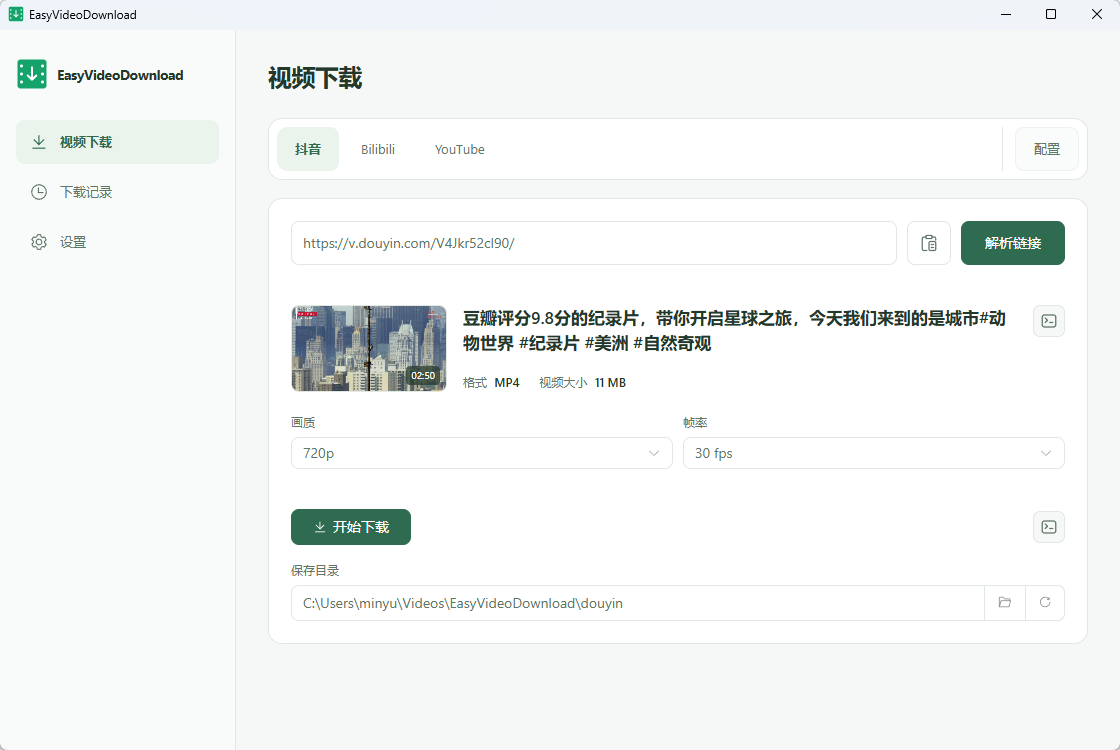
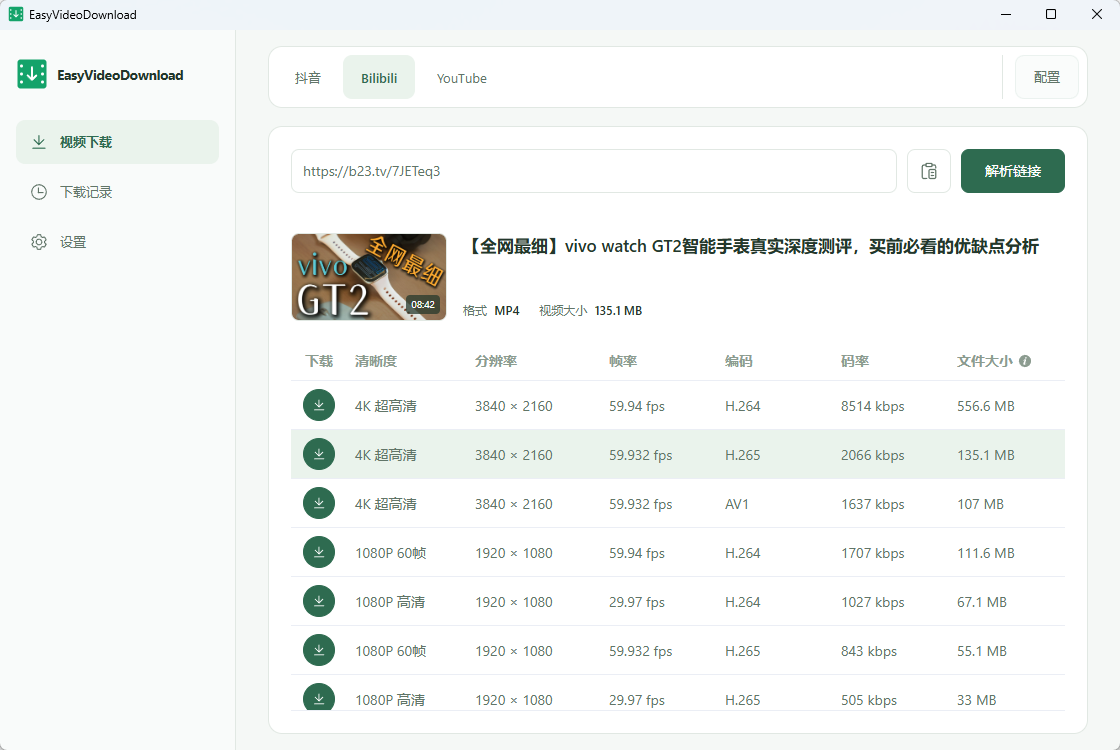
chore: 升级至 v0.2.0 并完善项目文档
1. 统一前端、Rust 和 Tauri 的应用版本为 0.2.0
2. 精简 README 为项目介绍与快速开始，更新界面截图并补充平台配置和代理说明

diff --git a/README.md b/README.md
@@ -1,90 +1,70 @@
 # EasyVideoDownload
 
-基于 Tauri 2、Vue 3、TypeScript、Element Plus 和 SQLite 的桌面端视频下载工具。抖音使用 Rust HTTP 引擎解析与下载，Bilibili 和
-YouTube 使用 yt-dlp。
+一款简单易用、页面美观的桌面视频下载工具。
 
-**当前版本：v0.1.0 · Early / Testing（第一版测试版本）**
+目前支持的平台：
 
-项目仍处于早期测试阶段，尚未达到稳定正式版。部分功能可能不完善，使用中可能遇到 Bug 或系统兼容性问题，后续版本也可能调整功能和交互。欢迎通过
-Issue 反馈问题、提出建议，也欢迎开发者提交 Pull Request，一起完善项目。
+- [抖音](https://www.douyin.com/)
+- [Bilibili](https://www.bilibili.com/)
+- [YouTube](https://www.youtube.com/)
 
-## 已实现的核心功能
+## 下载安装
 
-- **视频解析与下载**：提供抖音、Bilibili 和 YouTube 入口，支持从分享文本提取链接，展示真实标题、封面和格式表格，点击格式行直接下载，在对应平台配置中设置保存目录；独立音视频流通过
-  FFmpeg 合并。
-- **下载任务**：最多同时执行两个下载，其余按提交顺序排队；显示实际进度、速度及处理阶段，支持取消和重新下载，同一视频的不同格式分别记录。
-- **历史管理**：支持搜索、状态筛选、详情查看，打开文件、所在文件夹和来源链接；可将记录移入应用回收站或恢复，Windows
-  另支持文件回收与安全永久删除。
-- **必备工具配置**：检测系统 PATH、手动选择工具路径，或在支持的平台自动配置 yt-dlp、FFmpeg/FFprobe 和 Deno；自动配置提供进度反馈及取消操作。
-- **Cookie 与代理**：按平台导入 Netscape 格式 UTF-8 Cookie 文件、粘贴或编辑并自动保存；支持 HTTP、HTTPS、SOCKS5
-  代理配置、连接测试和平台独立开关。
-- **桌面设置与数据保存**：提供中文/英文界面、浅色/深色/系统主题、应用内下载通知、关闭询问和系统托盘；完成通知默认开启且可配置，失败始终通知；本地保存设置、页面状态、下载历史及封面缓存。
-- **运行日志**：前端通过 Tauri 官方日志插件与 Rust 后端统一记录启动错误、解析结果、下载阶段和失败原因，Cookie
-  脱敏。开发版同时输出到终端和文件，发布版只写文件；日志位于现有应用数据目录的 `logs/application_rCURRENT.log`，由
-  flexi_logger 按 5 MiB 分割并保留 4 个数字编号归档，重启后继续追加。
+前往 [Releases](https://github.com/MinYu5263/EasyVideoDownload/releases)，下载适合操作系统和架构的安装包。
 
-上述能力已在代码中接入，但网站解析及下载结果仍受 yt-dlp、网站规则、Cookie 和账号权限影响。
+## 快速开始
 
-## 项目截图
+### 1. 配置下载工具
 
-以下为 Windows 浅色主题下的实际界面。
+进入「设置 → 必备工具」，使用界面提供的自动配置，或手动选择工具路径并检测。
 
-### 视频解析与下载
+| 平台     | 所需配置                                |
+|----------|-----------------------------------------|
+| 抖音     | FFmpeg / FFprobe，以及有效的抖音 Cookie |
+| Bilibili | yt-dlp、FFmpeg / FFprobe                |
+| YouTube  | yt-dlp、FFmpeg / FFprobe，推荐配置 Deno |
 
-![视频解析与下载页面](docs/screenshots/download.png)
+![必备工具设置](docs/screenshots/tools.png)
 
-### 下载记录
+### 2. 设置平台
 
-![下载记录页面](docs/screenshots/history.png)
+在下载页打开当前平台配置，选择保存目录并导入 Cookie。抖音需要有效 Cookie；Bilibili 和 YouTube 访问登录内容时也需要
+Cookie，支持导入文件、粘贴或直接编辑。
 
-### 必备工具配置
+![平台配置](docs/screenshots/platform-settings.png)
 
-![必备工具配置页面](docs/screenshots/tools.png)
+### 3. 配置代理
 
-## 下载安装与使用
+下载 YouTube 等外网视频时，请先在「设置 → 代理设置」配置可用代理并测试连接，再开启对应平台的代理开关。支持 HTTP、HTTPS 和
+SOCKS5。
 
-测试版本及可下载的安装附件以 [Releases](https://github.com/MinYu5263/EasyVideoDownload/releases)
-中的实际发布内容为准。选择与你的操作系统和架构匹配的安装包，按照该版本说明安装后启动 EasyVideoDownload。Windows 的 `.msi` 或
-`-setup.exe` 安装包可直接运行安装；没有对应安装包时，可按下文从源码构建。
+![代理设置与连接测试](docs/screenshots/proxy-settings.png)
 
-Windows 推荐使用 `-setup.exe`（NSIS）安装向导，提供中文/英文选择、当前用户/所有用户安装、安装目录选择及开始菜单文件夹选择；完成页可选择创建桌面快捷方式和立即启动。
-双模式安装器会请求管理员权限。新安装的默认位置如下：
+### 4. 视频下载
 
-| 安装范围 | 程序目录                                        |
-|----------|-------------------------------------------------|
-| 当前用户 | `%LOCALAPPDATA%\Programs\EasyVideoDownload`     |
-| 所有用户 | `%ProgramFiles%\EasyVideoDownload`（64 位程序） |
+选择平台，粘贴视频链接或分享文本并解析，查看标题、封面、画质、编码、帧率和大小等信息，点击所需格式开始下载。
 
-应用数据保存在当前运行用户的 `%LOCALAPPDATA%\EasyVideoDownload`，默认安装目录与数据目录分开。在原安装范围内升级时，安装器会沿用旧安装目录；
-如果旧版程序与数据放在同一目录，可先卸载旧版并保留应用数据，再按新默认目录安装。选择自定义安装目录时也应与数据目录分开。
-`.msi` 使用 WiX 的标准安装界面，安装范围与快捷方式选项和 NSIS 向导不同。
+![视频下载与格式选择](docs/screenshots/download.png)
 
-首次使用需要配置下载工具：yt-dlp 负责解析与下载，FFmpeg/FFprobe 用于音视频处理，Deno 用于 YouTube 解析所需的 JavaScript
-运行时。工具不必预先加入系统 PATH，也可以在应用内手动配置或使用支持平台的自动配置。
+### 5. 下载管理
 
-1. 启动程序，进入「设置 → 必备工具」，配置并检测所需工具。手动配置 FFmpeg 时，应确保所选目录包含 FFmpeg 和 FFprobe。
-2. 在下载页选择抖音、Bilibili 或 YouTube，粘贴视频链接或包含链接的分享文本。
-3. 如需访问登录内容，在当前平台配置中导入或编辑 Cookie；如需代理，先在设置中配置代理，再开启当前平台的代理开关。
-4. 解析视频，确认标题、画质、帧率和保存目录后开始下载。
-5. 在任务卡片查看进度或取消任务，完成后通过历史记录打开文件或文件夹；失败时根据提示调整配置后重试。
+查看任务进度、暂停、继续或取消下载，最大同时下载数可在设置中调整。通过下载记录搜索、筛选和重新下载，也可直接打开视频、所在文件夹或来源链接。
 
-Cookie 按平台独立保存在本机。解析与下载使用临时副本，避免 yt-dlp 回写用户维护的 Cookie
-文件。详细行为见 [Cookie 说明](docs/cookies.md)。
+![下载任务与历史记录](docs/screenshots/history.png)
 
 ## 开发环境
 
-- **Node.js**：满足当前锁定的 Vite 依赖要求：`^20.19.0 || >=22.12.0`。
-- **pnpm**：项目使用 `pnpm-lock.yaml` 管理依赖。
-- **Rust 与 Cargo**：用于编译原生后端。
-- **Tauri 2**：CLI 已作为项目开发依赖提供，通过 `pnpm tauri` 调用。
-- **系统构建依赖**：Windows 需要 C++ 构建工具和 WebView2；macOS 需要 Xcode Command Line Tools；Linux 需要
-  WebKitGTK、编译工具等对应发行版依赖。具体安装方式见 [Tauri 环境要求](https://v2.tauri.app/start/prerequisites/)。
+项目使用 Tauri 2、Vue 3、TypeScript 和 Element Plus。
 
-SQLite 通过 Rust 依赖内置，无需单独部署数据库服务。开发期间进行真实解析和下载时，也需要配置上述下载工具。
+- **Node.js**：`^20.19.0 || >=22.12.0`。
+- **pnpm**：用于安装依赖和执行项目命令。
+- **Rust 与 Cargo**：用于编译原生后端。
+- **系统构建依赖**：Windows 需要 C++ 构建工具和 WebView2；macOS 需要 Xcode Command Line Tools；Linux 需要 WebKitGTK
+  等依赖。详见 [Tauri 环境要求](https://v2.tauri.app/start/prerequisites/)。
 
 ## 本地开发与构建
 
-在项目根目录安装依赖、生成桌面图标并启动 Tauri 开发窗口：
+安装依赖、生成图标并启动桌面开发窗口：
 
 ```sh
 pnpm install --frozen-lockfile
@@ -92,95 +72,22 @@ pnpm icons
 pnpm tauri dev
 ```
 
-`pnpm dev` 和 `pnpm preview` 可用于前端界面预览；真实解析、下载、文件操作等功能需要在 Tauri 桌面窗口中执行。
-
-常用检查与前端构建：
-
-```sh
-pnpm exec vue-tsc --noEmit
-pnpm build
-cargo check --manifest-path src-tauri/Cargo.toml --locked
-cargo test --manifest-path src-tauri/Cargo.toml --locked
-```
-
-本地前端测试通过 `pnpm test` 执行，但 `tests/` 是被 Git 忽略的本地验证内容，克隆仓库时不包含这些文件。Rust
-测试随源码维护，默认跳过需要真实窗口、系统回收站或外部网络的手动烟测。
-
-构建桌面安装包：
+构建安装包：
 
 ```sh
 pnpm icons
 pnpm tauri build
 ```
 
-Tauri 构建会自动执行 `pnpm build`，安装包输出到 `src-tauri/target/release/bundle/`
-。请在目标操作系统上构建并验证；构建成功不能替代实际安装、网站下载和文件播放测试。
+安装包输出到 `src-tauri/target/release/bundle/`。真实解析、下载和文件操作需要在 Tauri 桌面窗口中运行。
 
-Windows 安装选项配置在 `src-tauri/tauri.conf.json` 的 `bundle.windows.nsis` 中；只构建安装向导可执行
-`pnpm tauri build --bundles nsis`，只构建 MSI 可执行 `pnpm tauri build --bundles msi`。
-可执行文件名由 Cargo 包名控制，统一为 `EasyVideoDownload.exe`，日志中的应用名称也使用 `EasyVideoDownload`。
-系统应用 ID `com.minyu.easyvideodownload` 和迁移时读取的旧语言设置键 `easyvideodownload.locale` 保留原值，以兼容已有
-WebView 数据和旧设置；这些不是展示名称。
+## 反馈与贡献
 
-主图标维护在 `src/assets/app-icon.svg`。`pnpm icons` 生成 PNG、ICO 和 ICNS，保存至被忽略的
-`src-tauri/target/generated-icons/`；首次构建、清理 Cargo 构建目录或更新 SVG 后需重新生成，Cargo 和 Vite 不会自动生成桌面图标。
-其中 ICNS 使用单独适配的 macOS 圆角和留白，`macos-icon.png` 可用于预览；界面 SVG 和其他平台图标保持原样。
-修改 SVG 的底板结构时，需要同步调整生成脚本中的 macOS 适配逻辑。预览图不包含系统效果，最终外观需在重新打包后的 Finder、Dock 中确认。
+欢迎通过 [Issue](https://github.com/MinYu5263/EasyVideoDownload/issues)
+反馈问题和建议，或提交 [Pull Request](https://github.com/MinYu5263/EasyVideoDownload/pulls) 参与改进。
 
-## 项目结构
-
-| 路径                      | 用途                                            |
-|---------------------------|-------------------------------------------------|
-| `src/`                    | Vue 页面、共享状态、IPC 调用、本地化和界面资源  |
-| `src-tauri/src/`          | Rust 原生命令、任务调度、文件安全检查和数据存储 |
-| `src-tauri/migrations/`   | SQLite 数据库升级脚本，保留历史版本以支持迁移   |
-| `src-tauri/capabilities/` | Tauri 桌面权限配置                              |
-| `scripts/`                | 桌面图标生成脚本                                |
-| `docs/`                   | Cookie 与数据库说明                             |
-
-## 本地数据说明
-
-设置、页面状态和下载历史由 Rust 写入本地 SQLite 数据库 `app.db`。Cookie 文件、封面缓存、运行日志和自动配置的工具也保存在应用数据目录，下载的视频保存在用户选择的目录。
-
-数据目录由 Tauri
-的系统路径接口定位，可通过设置中的「打开文件夹」查看。数据库包含版本迁移，升级失败会回滚；结构与迁移细节见 [数据库说明](docs/database.md)。
-
-## 当前版本已知限制
-
-- 当前只处理单个视频，不支持合集、播放列表或多段视频结果；下载支持取消和重新下载，尚未提供暂停/恢复。
-- 工具自动配置仅覆盖 Windows、macOS 的部分架构，以工具卡片是否提供该选项为准；Linux 使用系统 PATH 或手动路径。yt-dlp、Deno
-  使用官方发布源，FFmpeg 使用 Gyan（Windows）和 Evermeet（macOS）。Apple 芯片上的自动 FFmpeg 需要 Rosetta 2，工具更新管理尚未接入。
-- 系统回收站与安全永久删除仅在 Windows 接入。macOS/Linux 可移除或恢复历史记录，但存在旧输出文件的重新下载会因安全删除暂不支持而报错。
-- 重新下载会在任务实际准备时安全删除旧输出；取消排队任务保留旧文件。文件被占用、身份变化或被其他记录引用时会拒绝删除。
-- 应用回收站与系统回收站相互独立；恢复历史记录不会自动恢复已删除的视频文件。应用回收站的永久删除/清空会删除对应最终视频文件，不送入系统回收站。
-- 网站变化、工具版本和账号权限可能影响解析与下载，v0.1.0 也可能存在尚未发现的问题。
-
-## Roadmap
-
-后续优先方向：
-
-- 根据使用反馈修复 Bug，改善下载失败提示与交互体验。
-- 补充不同系统环境的测试，完善跨平台文件操作与兼容性。
-- 持续完善文档和回归验证，逐步提高版本稳定性。
-
-## 参与贡献
-
-这是项目的第一个版本，还有不少地方可以改进。无论是使用中的问题、更顺手的交互方案，还是功能建议，都欢迎通过 [Issue](https://github.com/MinYu5263/EasyVideoDownload/issues)
-分享。
-
-如果愿意参与开发，欢迎 Fork 项目并提交 [Pull Request](https://github.com/MinYu5263/EasyVideoDownload/pulls)。Bug
-修复、体验优化、文档完善，以及不同操作系统上的测试反馈，都是很有帮助的贡献。较大的改动可以先通过 Issue
-讨论需求和实现方向；协作约定见 [AGENTS.md](AGENTS.md)。
-
-## 问题反馈
-
-请通过 [Issue](https://github.com/MinYu5263/EasyVideoDownload/issues) 提交问题，尽量提供：
-
-- 应用版本、操作系统及架构，相关下载工具的版本。
-- 涉及的平台、操作步骤、预期结果与实际结果。
-- 可复现的错误信息或真实截图。
-
-提交前请移除 Cookie、带令牌的链接等账号信息，并对个人路径等隐私内容脱敏。
+反馈问题时，请提供应用版本、操作系统、复现步骤及错误信息或截图，并移除
+Cookie、令牌等隐私信息。开发协作约定见 [AGENTS.md](AGENTS.md)。
 
 ## License
 
